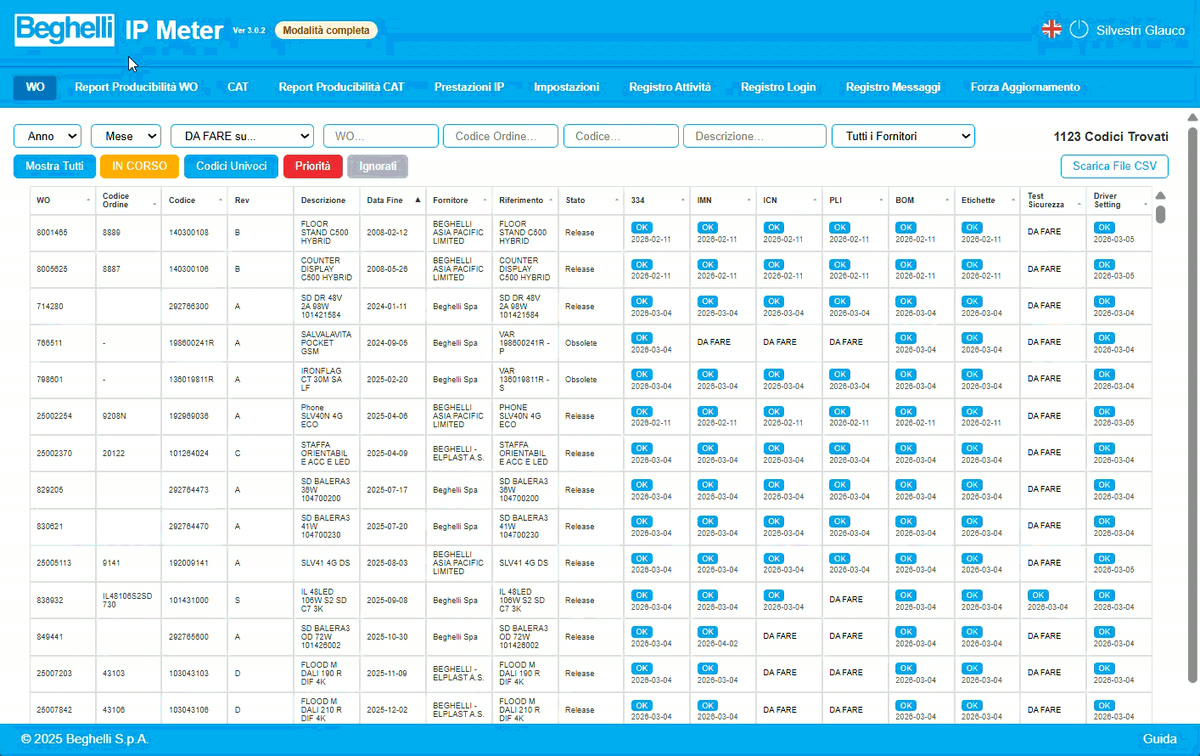
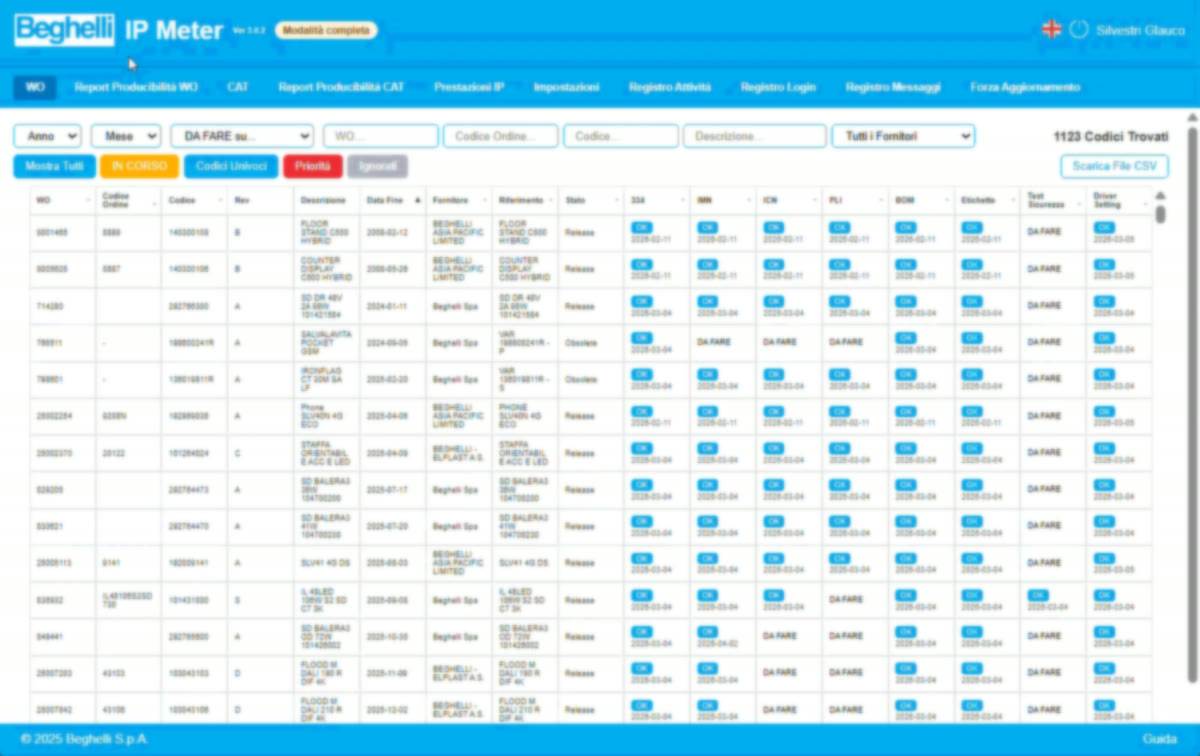
feat: blur internal tool demos

diff --git a/index.html b/index.html
@@ -223,11 +223,11 @@
                 loop
                 playsinline
                 preload="metadata"
-                poster="assets/tools/processdesigner-poster.jpg"
+                poster="assets/tools/processdesigner-poster.jpg?v=20260907-5"
                 aria-label="Dimostrazione dell'interfaccia di Process Designer"
                 data-demo-video
               >
-                <source src="assets/tools/processdesigner.mp4" type="video/mp4" />
+                <source src="assets/tools/processdesigner.mp4?v=20260907-5" type="video/mp4" />
               </video>
               <span class="tool-index">01</span>
             </div>
@@ -255,11 +255,11 @@
                 loop
                 playsinline
                 preload="metadata"
-                poster="assets/tools/ipmeter-poster.jpg"
+                poster="assets/tools/ipmeter-poster.jpg?v=20260907-5"
                 aria-label="Dimostrazione dell'interfaccia di IP Meter"
                 data-demo-video
               >
-                <source src="assets/tools/ipmeter.mp4" type="video/mp4" />
+                <source src="assets/tools/ipmeter.mp4?v=20260907-5" type="video/mp4" />
               </video>
               <span class="tool-index">02</span>
             </div>
@@ -287,11 +287,11 @@
                 loop
                 playsinline
                 preload="metadata"
-                poster="assets/tools/schedaistruzioniprodotto-poster.jpg"
+                poster="assets/tools/schedaistruzioniprodotto-poster.jpg?v=20260907-5"
                 aria-label="Dimostrazione dell'interfaccia di Scheda Istruzioni Prodotto"
                 data-demo-video
               >
-                <source src="assets/tools/schedaistruzioniprodotto.mp4" type="video/mp4" />
+                <source src="assets/tools/schedaistruzioniprodotto.mp4?v=20260907-5" type="video/mp4" />
               </video>
               <span class="tool-index">03</span>
             </div>
